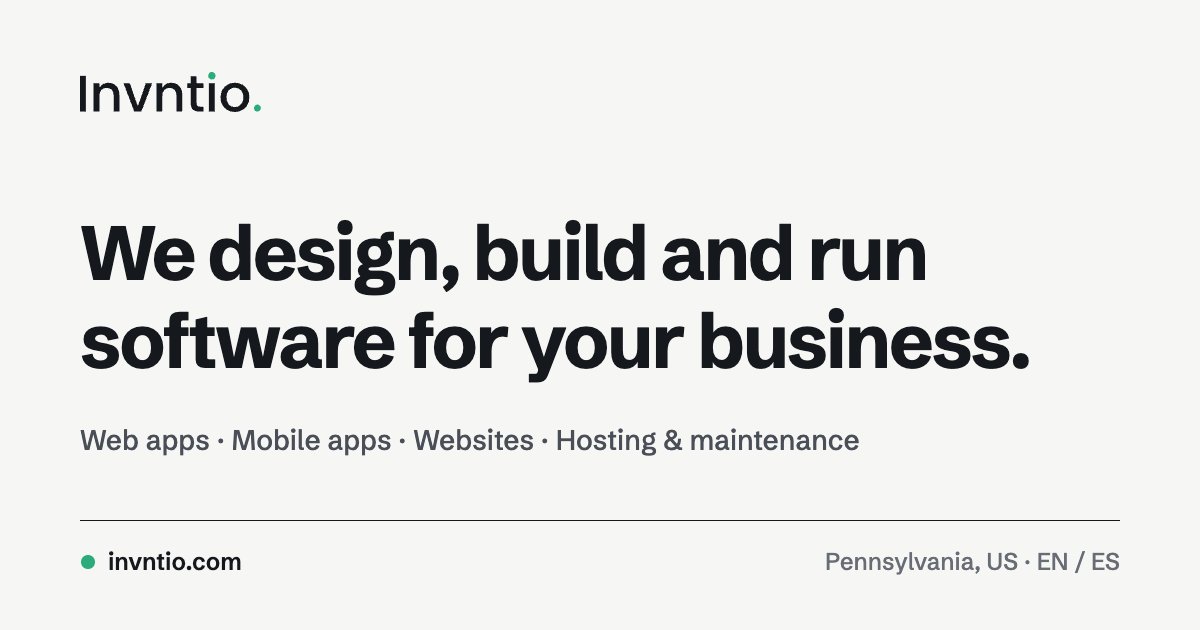
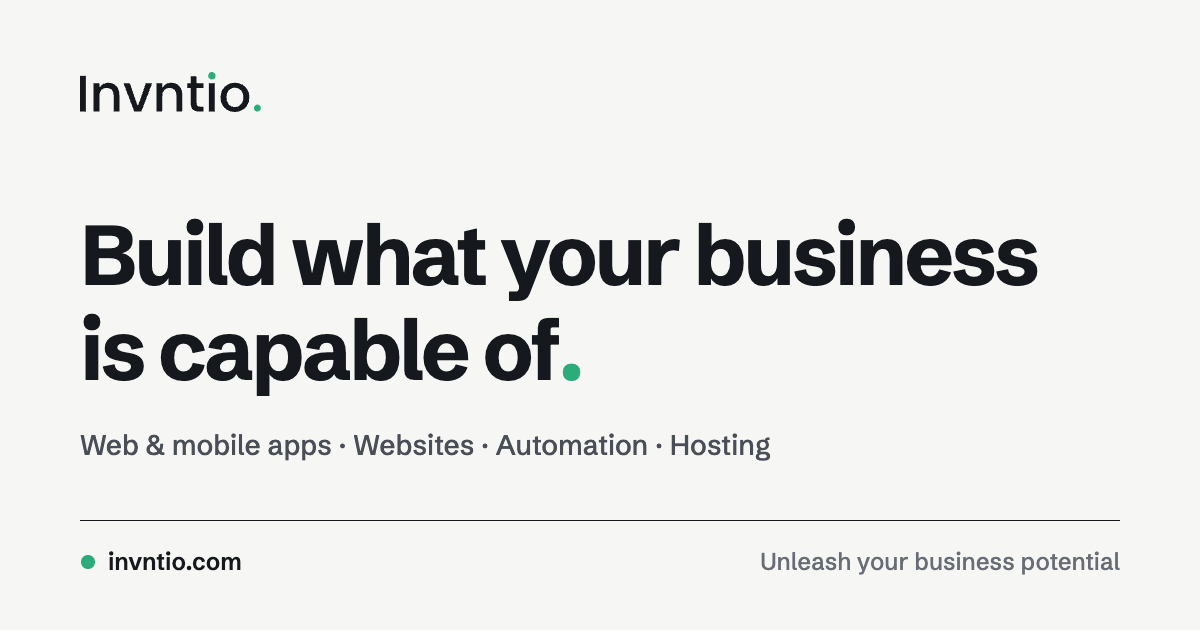
copy: new hero line, original slogan back in the footer, refreshed OG image

Changed region(s): [[0.0617, 0.3317, 0.8633, 0.6333], [0.0617, 0.6635, 0.74, 0.7238], [0.6167, 0.8746, 0.9558, 0.9048]]

diff --git a/src/i18n/ui.ts b/src/i18n/ui.ts
@@ -27,8 +27,8 @@ const en = {
         theme: "Switch between light and dark theme",
     },
     hero: {
-        title: "We design, build and run software for your business.",
-        lede: "Web apps, mobile apps, websites and the hosting behind them. From the first call through years of maintenance, handled directly by the engineer who builds it.",
+        title: "Build what your business is capable of.",
+        lede: "We design, build and run the software behind it: web and mobile apps, websites, automation and hosting. From the first call through years of maintenance, handled directly by the engineer who builds it.",
         cta: "Start a project",
         orEmail: "or write to",
         location: "Pennsylvania, US · Serving clients in the Americas",
@@ -188,7 +188,7 @@ const en = {
         },
     },
     footer: {
-        tagline: "Software design, development and hosting.",
+        tagline: "Unleash your business potential",
         legal: "Legal",
         site: "Site",
         contact: "Contact",
@@ -239,8 +239,8 @@ const es: Dict = {
         theme: "Cambiar entre tema claro y oscuro",
     },
     hero: {
-        title: "Diseñamos, construimos y operamos el software de tu negocio.",
-        lede: "Aplicaciones web, apps móviles, sitios web y el hosting que los sostiene. Desde la primera llamada hasta años de mantenimiento, con trato directo con el ingeniero que lo construye.",
+        title: "Construye todo lo que tu negocio puede ser.",
+        lede: "Diseñamos, construimos y operamos el software que lo hace posible: apps web y móviles, sitios web, automatizaciones y hosting. Desde la primera llamada hasta años de mantenimiento, con trato directo con el ingeniero que lo construye.",
         cta: "Empezar un proyecto",
         orEmail: "o escribe a",
         location: "Pensilvania, EE. UU. · Clientes en toda América",
@@ -400,7 +400,7 @@ const es: Dict = {
         },
     },
     footer: {
-        tagline: "Diseño, desarrollo y hosting de software.",
+        tagline: "Libera el potencial de tu negocio",
         legal: "Legal",
         site: "Sitio",
         contact: "Contacto",
